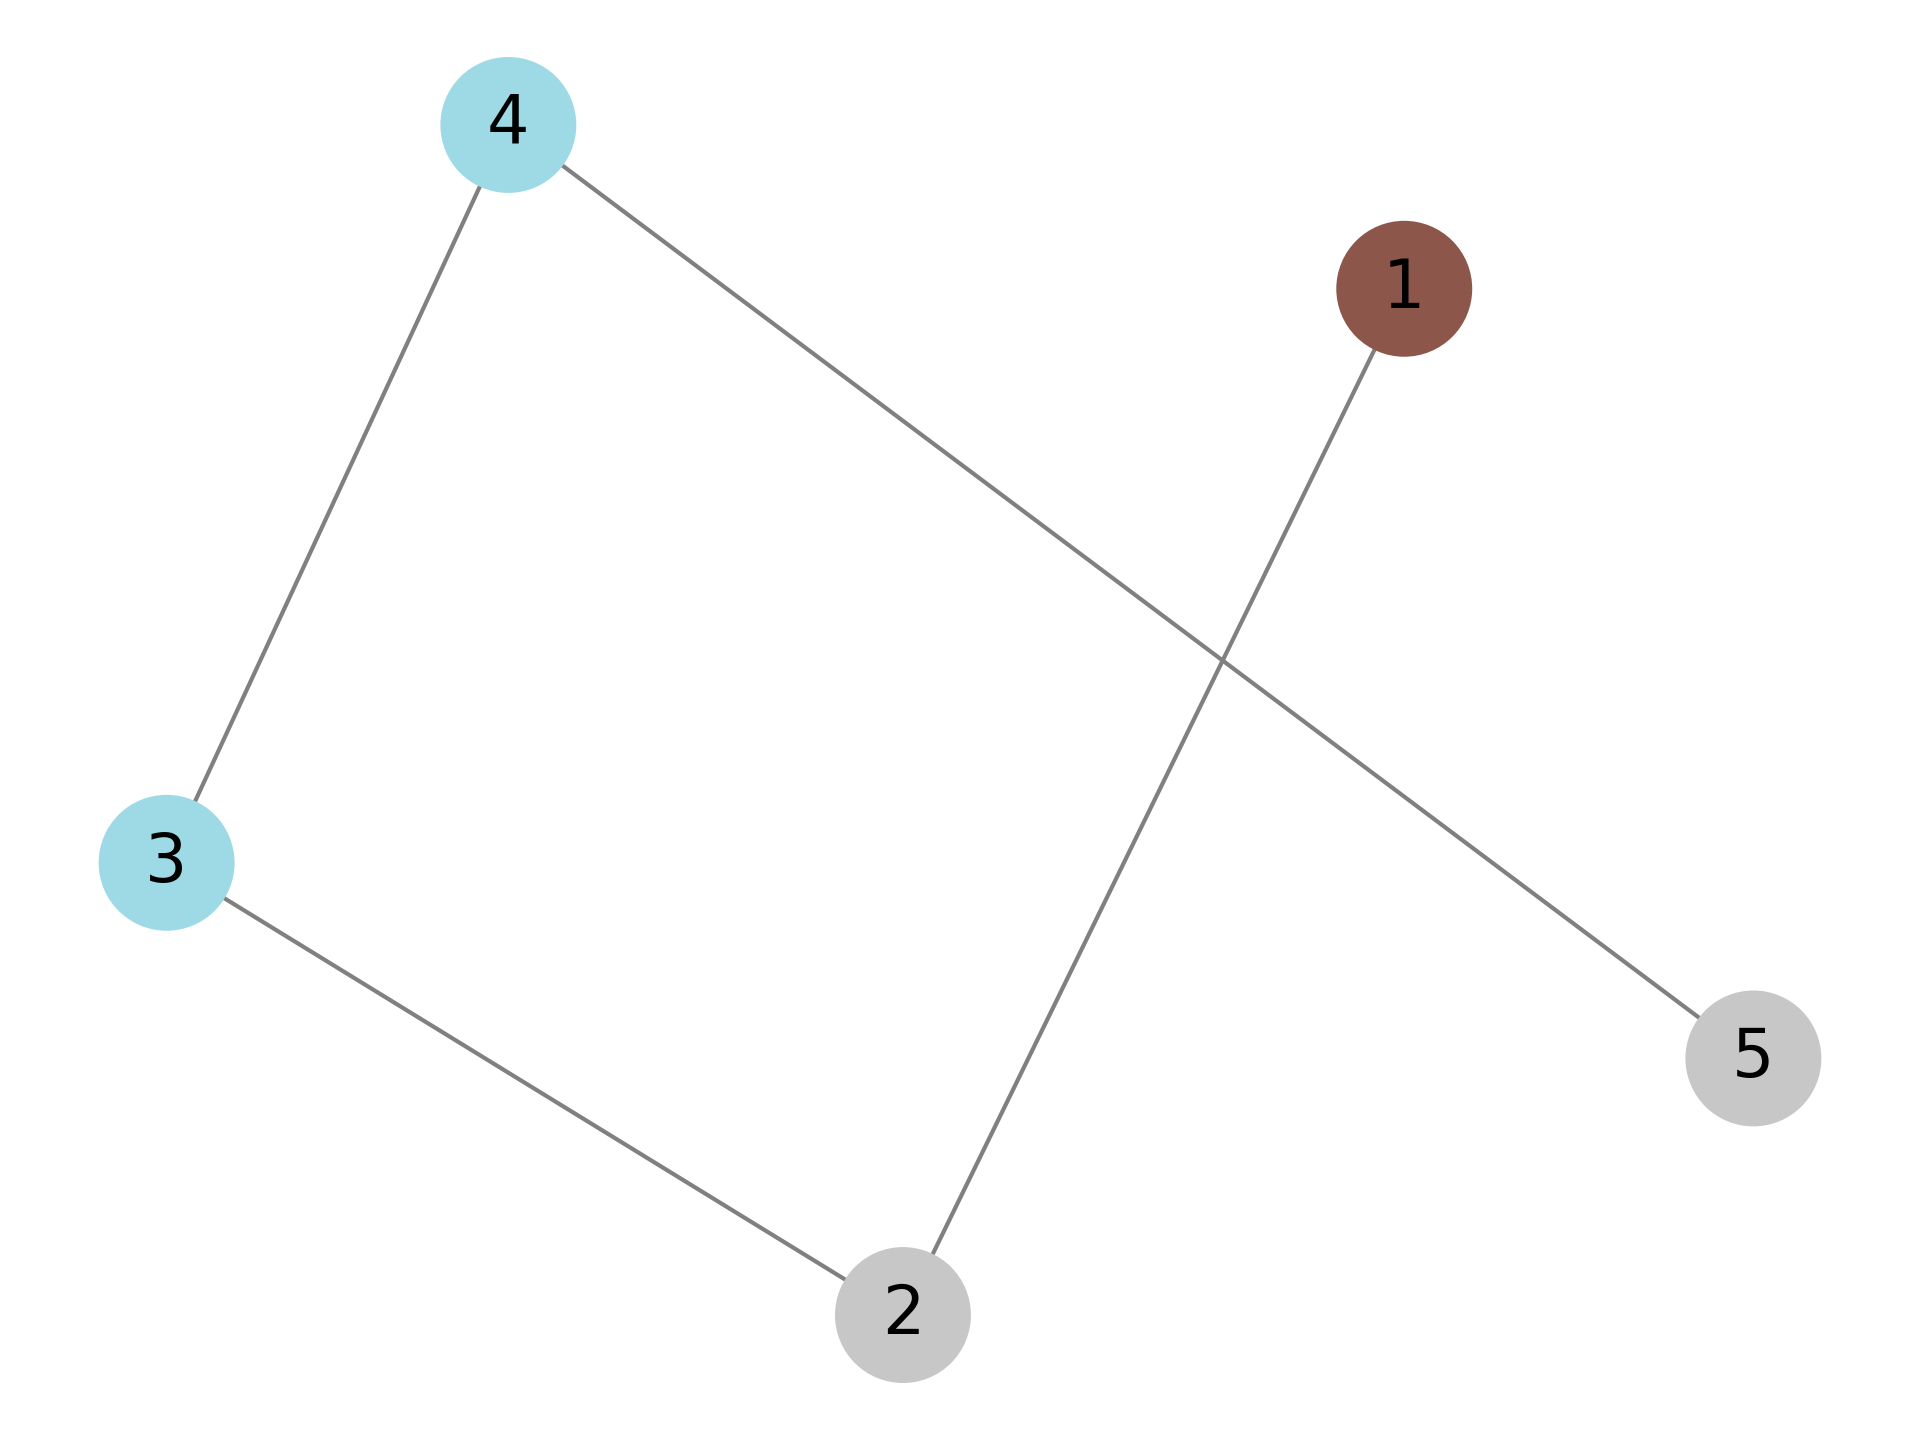
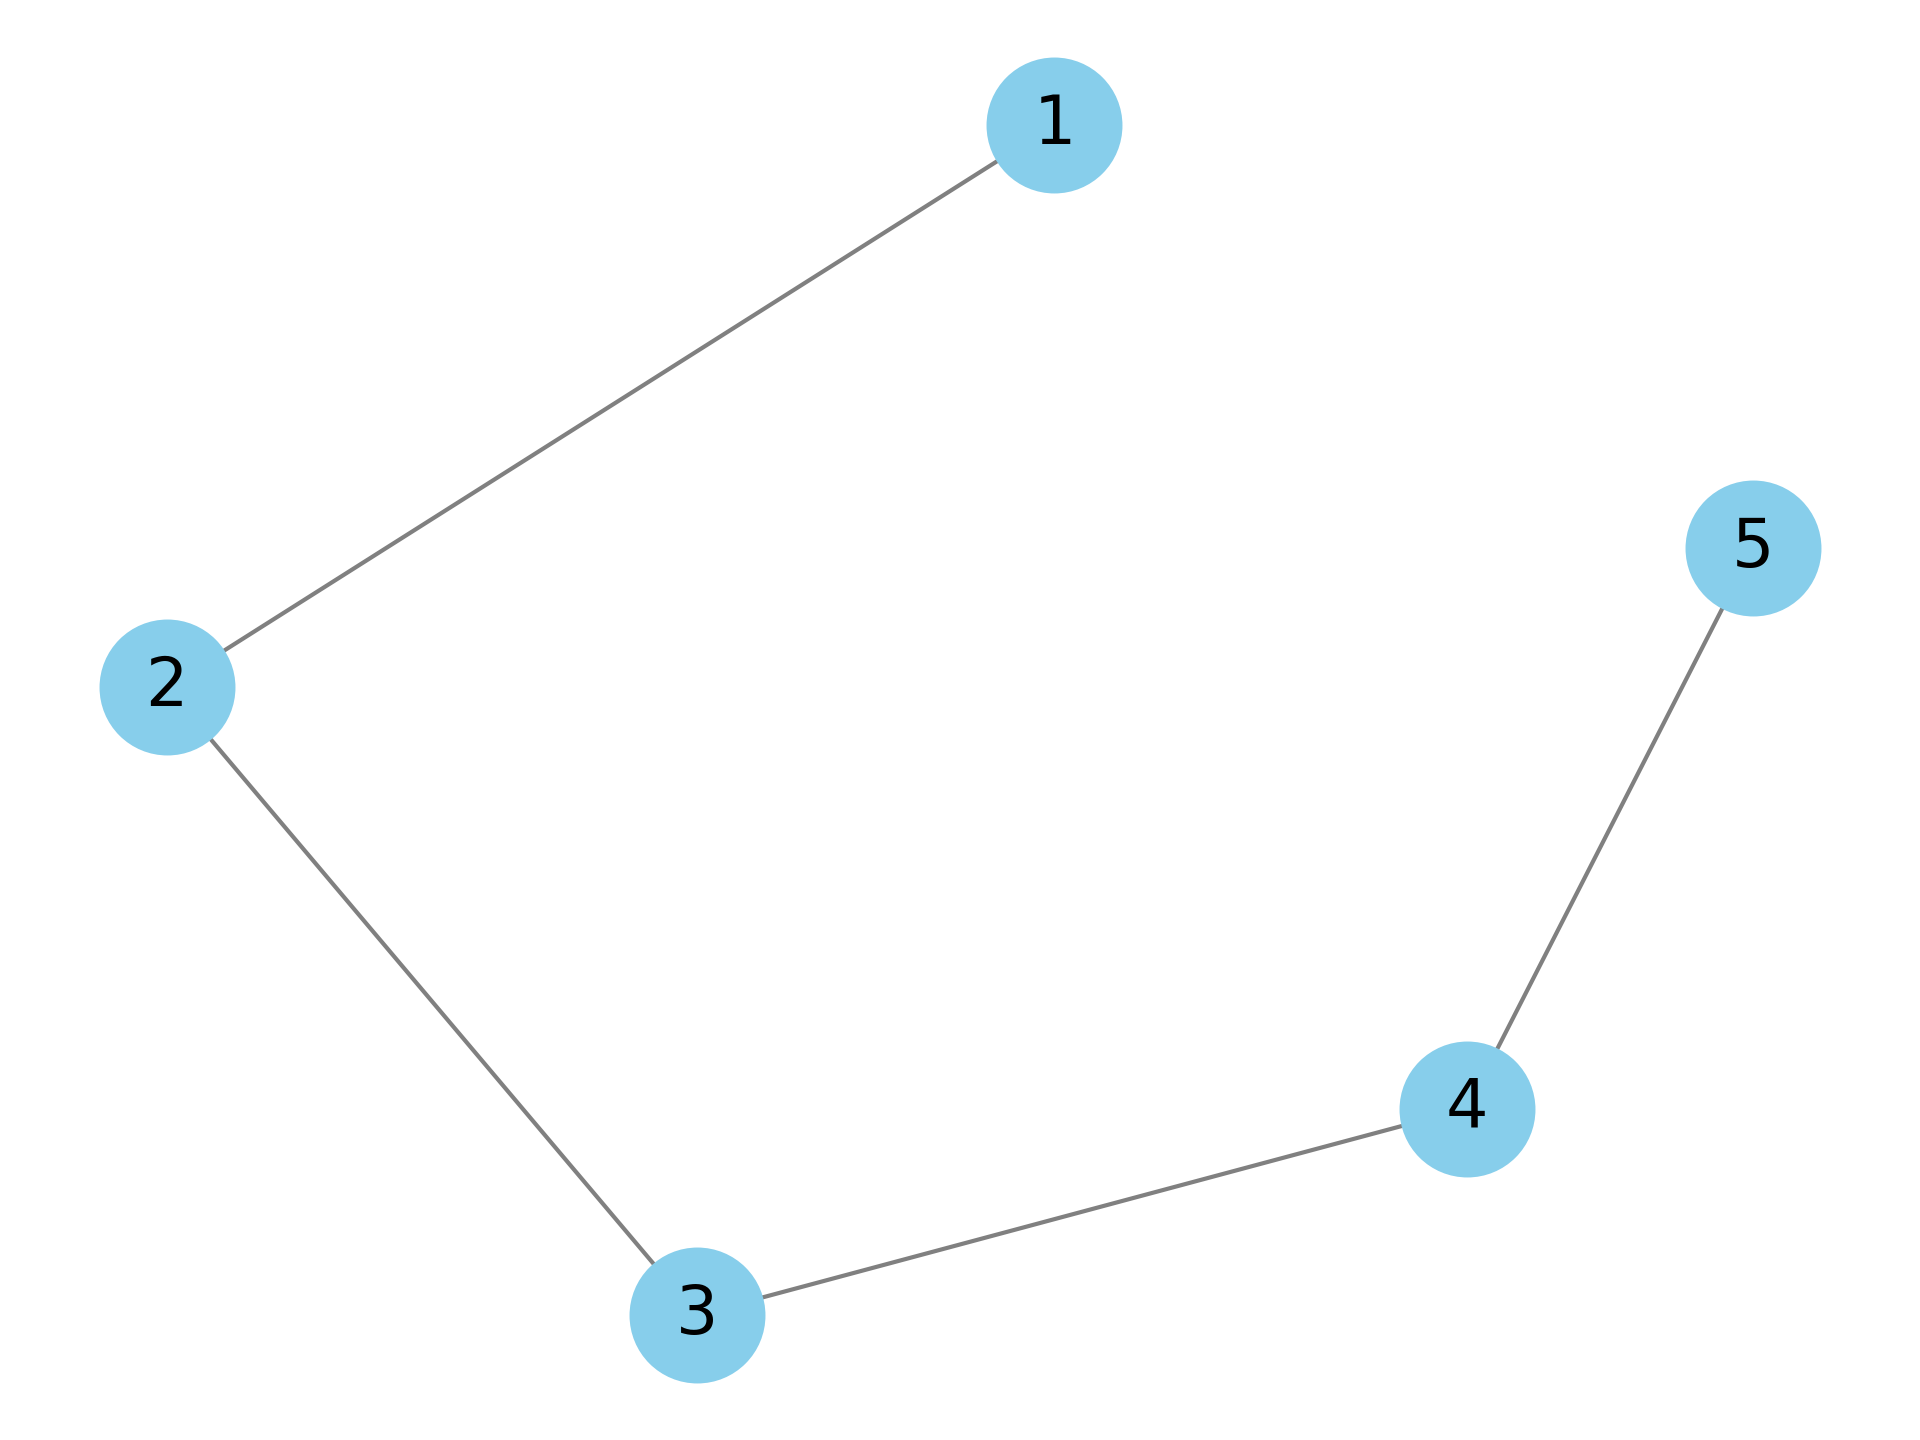
Refactor dominator partition model: change K to 2, update variable types to integer, and modify solution output format

diff --git a/code/math-models/dominator-partition/fixed-k/main.py b/code/math-models/dominator-partition/fixed-k/main.py
@@ -9,15 +9,15 @@ from draw_graph import draw_graph
 # parameters
 SEARCH_FESAIBLE = False
 V, E = tree5_path
-K = 5
+K = 2
 PI = {i for i in range(1, K+1)}  # Number of blocks (fixed)
 
 # model
 m = gp.Model('dominator-partition-fixed-k')
 
 # decision variables
-x = m.addVars(V, PI, vtype=GRB.CONTINUOUS, lb=0, ub=1, name="x")  # x[v, i]
-d = m.addVars(V, PI, vtype=GRB.CONTINUOUS, lb=0, ub=1, name="d")  # d[v, i]
+x = m.addVars(V, PI, vtype=GRB.INTEGER, lb=0, ub=1, name="x")  # x[v, i]
+d = m.addVars(V, PI, vtype=GRB.INTEGER, lb=0, ub=1, name="d")  # d[v, i]
 
 # objective: minimize number of blocks used
 m.setObjective(0, GRB.MINIMIZE)
@@ -94,5 +94,5 @@ with open(f"{script_dir}/solution.txt", "w", encoding="utf-8") as f:
     else:
         print("No feasible solution found.", file=f)
         
-draw_graph(V, E, partitions=partitions, seed=0)
+draw_graph(V, E, partitions=partitions, seed=1)
 m.write("model.lp")
